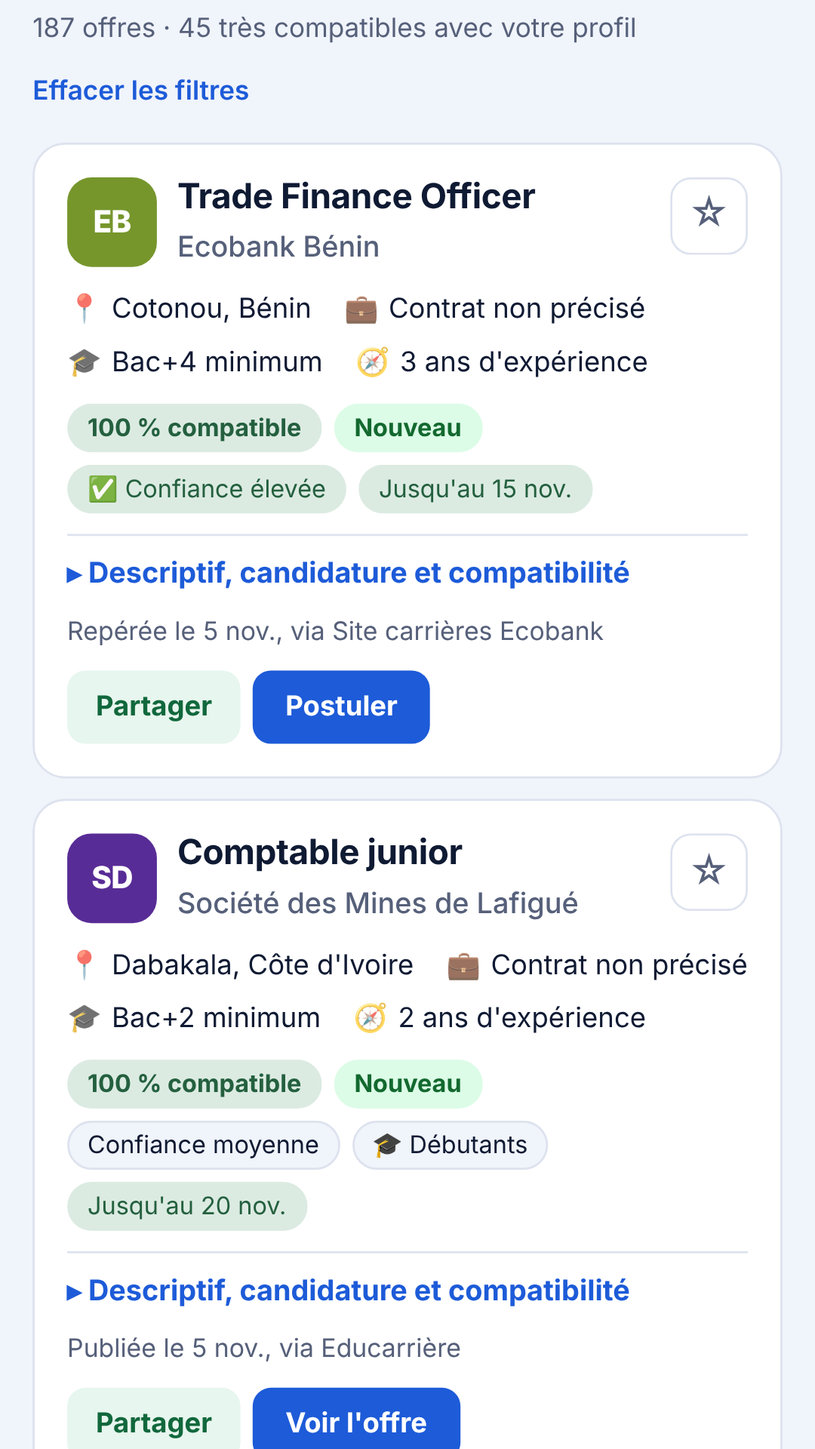
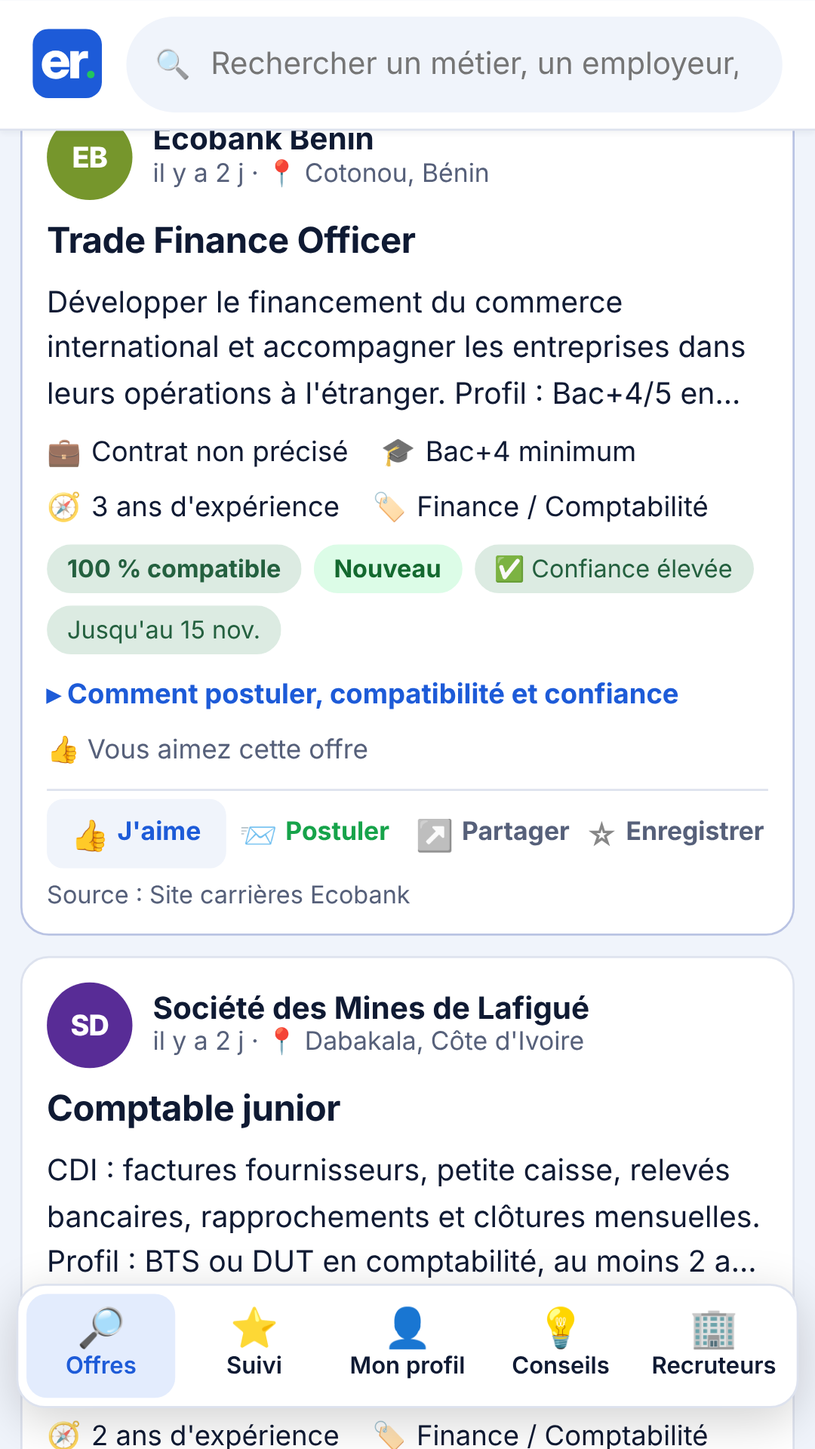
Présentation en fil d'actualité et bouton J'aime
Claude-Session: https://claude.ai/code/session_01GXcZSC4VoChyLTkUpjdEEi

diff --git a/index.html b/index.html
@@ -207,7 +207,6 @@ body{background:var(--bg)}
 .pick-b small{opacity:.7;margin-left:3px}
 .hero .sub{color:#c7d6ff;margin:14px 0 0;font-size:13.5px}
 .hero #partenaire a{color:#fff;text-decoration:underline}
-body:not(.v-offres) .hsearch, body:not(.v-offres) .picks, body:not(.v-offres) .hsub{display:none}
 body:not(.v-offres) .hero h1{font-size:clamp(26px,4vw,34px);margin-bottom:0}
 body:not(.v-offres) .hbar{margin-bottom:18px}
 .nav{margin:-22px 0 16px;position:relative;z-index:2;box-shadow:0 6px 20px rgba(18,29,82,.12)}
@@ -256,32 +255,136 @@ body:not(.v-offres) .hbar{margin-bottom:18px}
 .panel h2,h2.h,.dlg h2{font-weight:800;letter-spacing:-.02em}
 .hrec{background:var(--night)}
 body:not(.v-offres) .sun{width:260px;height:260px;bottom:-170px;right:-60px}
+/* ===== v4 : fil d'actualité ===== */
+.wrap{max-width:none;margin:0;padding:0 0 90px}
+.topbar{position:sticky;top:0;z-index:20;background:var(--card);border-bottom:1px solid var(--line);box-shadow:0 1px 3px rgba(15,26,51,.06)}
+.tb-in{max-width:1280px;margin:0 auto;padding:8px 16px;display:flex;align-items:center;gap:12px}
+.topbar .logo{color:var(--accent);font-size:20px;flex:none}
+.topbar .logo .mk rect{fill:var(--accent)} .topbar .logo .mk path{fill:#fff}
+.hsearch{flex:1;max-width:560px;margin:0 auto;display:flex;align-items:center;gap:6px;background:var(--bg);border-radius:999px;padding:4px 4px 4px 14px;box-shadow:none}
+.hsearch:focus-within{box-shadow:0 0 0 2px var(--accent)}
+.hsearch input{font-size:15px;padding:8px 4px;color:var(--ink)}
+.hsearch button{border-radius:999px;padding:8px 16px;font-size:14px}
+.sic{opacity:.6;font-size:14px}
+.hrec{flex:none;background:var(--accent-soft);color:var(--accent);border:0;border-radius:999px;padding:8px 14px;font:inherit;font-size:14px;font-weight:700;cursor:pointer}
+.hrec:hover{background:var(--accent);color:#fff}
+.layout{max-width:1280px;margin:0 auto;padding:16px;display:grid;grid-template-columns:250px minmax(0,640px) 300px;gap:24px;justify-content:center;align-items:start}
+.lside,.rside{position:sticky;top:72px;max-height:calc(100vh - 88px);overflow:auto}
+.lside .nav{flex-direction:column;background:transparent;border:0;box-shadow:none;padding:0;margin:0 0 12px;gap:2px}
+.lside .nav button{text-align:left;display:flex;align-items:center;gap:10px;padding:10px 12px;font-size:15px;border-radius:10px}
+.lside .nav button:hover{background:var(--card)}
+.lside .nav button[aria-selected="true"]{background:var(--accent-soft);color:var(--accent)}
+.lside .nav .ic{font-size:20px;width:28px;text-align:center;margin:0}
+.lside .nav .lg{display:inline}.lside .nav .sh{display:none}
+.shorts{border-top:1px solid var(--line);padding-top:10px}
+.shorts h3,.side h3{font-size:14px;color:var(--mute);font-weight:700;margin:4px 12px 6px}
+.shorts button{display:flex;width:100%;align-items:center;gap:10px;background:none;border:0;padding:8px 12px;border-radius:10px;font:inherit;font-size:14.5px;color:var(--ink);cursor:pointer;text-align:left}
+.shorts button:hover,.shorts button[aria-pressed="true"]{background:var(--card)}
+.shorts button[aria-pressed="true"]{color:var(--accent);font-weight:700}
+.shorts .n{margin-left:auto;color:var(--mute);font-size:12.5px}
+.lfoot{color:var(--mute);font-size:12px;margin:12px}
+.composer{background:var(--card);border:1px solid var(--line);border-radius:14px;padding:14px 16px;margin-bottom:12px}
+.hello{font-size:19px;font-weight:800;margin:0 0 4px;letter-spacing:-.01em}
+.composer .hsub{color:var(--mute);font-size:14.5px;margin:0 0 10px}
+.composer .hsub b{color:var(--ink)}
+.picks{display:flex;gap:10px;overflow-x:auto;padding:6px 4px 4px;margin:0;scrollbar-width:thin;flex-wrap:nowrap}
+.pick-b{flex:none;display:flex;flex-direction:column;align-items:center;gap:4px;background:none;border:0;color:var(--ink);font:inherit;font-size:12.5px;cursor:pointer;width:76px;padding:0}
+.pick-b .ring{width:60px;height:60px;border-radius:50%;display:grid;place-items:center;font-weight:800;font-size:16px;color:#fff;background:hsl(var(--h) 60% 42%);box-shadow:0 0 0 3px var(--card),0 0 0 5px var(--accent)}
+.pick-b[aria-pressed="true"] .ring{box-shadow:0 0 0 3px var(--card),0 0 0 5px var(--sun)}
+.pick-b:hover,.pick-b[aria-pressed="true"]{background:none;color:var(--accent)}
+.pick-b small{opacity:1;margin:0;color:var(--mute);font-size:11.5px}
+.pick-b .lb{max-width:76px;overflow:hidden;text-overflow:ellipsis;white-space:nowrap;font-weight:600}
+.controls{background:var(--card);border:1px solid var(--line);border-radius:14px;padding:12px;margin-bottom:12px}
+#ban-top .ad{margin-bottom:12px}
+/* publication */
+.job{padding:0;gap:0;border-radius:14px;overflow:hidden}
+.job>*{margin:0}
+.ph{display:flex;gap:10px;align-items:center;padding:12px 16px 0}
+.ph .mono{width:42px;height:42px;border-radius:50%;font-size:14px}
+.ph .who{flex:1;min-width:0}
+.ph .who b{display:block;font-size:15px;line-height:1.25}
+.ph .who span{display:block;color:var(--mute);font-size:12.5px;line-height:1.35}
+.pb{padding:10px 16px 0}
+.pb h3{margin:0 0 6px;font-size:17.5px;font-weight:750;line-height:1.3;letter-spacing:-.01em}
+.pb h3 a{color:inherit;text-decoration:none}.pb h3 a:hover{text-decoration:underline}
+.pdesc{margin:0 0 8px;font-size:14.5px;line-height:1.55;display:-webkit-box;-webkit-line-clamp:3;-webkit-box-orient:vertical;overflow:hidden}
+.pdesc.open{display:block}
+.more{background:none;border:0;padding:0;color:var(--mute);font:inherit;font-weight:700;font-size:14px;cursor:pointer;margin:-4px 0 8px}
+.pb .facts{margin-bottom:8px}
+.pb .tags{margin-bottom:10px}
+.job .det{border-top:0;padding:0 16px 8px}
+.job .det>summary{font-size:13.5px}
+.pcount{display:flex;justify-content:space-between;padding:0 16px 8px;font-size:13px;color:var(--mute)}
+.pcount:empty{display:none}
+.pbar{display:grid;grid-template-columns:repeat(4,1fr);border-top:1px solid var(--line);margin:0 12px;padding:4px 0}
+.pbar>*{display:flex;align-items:center;justify-content:center;gap:6px;background:none;border:0;border-radius:8px;padding:8px 4px;font:inherit;font-size:14px;font-weight:650;color:var(--mute);cursor:pointer;text-decoration:none;white-space:nowrap}
+.pbar>*:hover{background:var(--bg)}
+.pbar .on{color:var(--accent)}
+.pbar .ap{color:var(--sun)}
+.pbar .ico{font-size:17px;line-height:1}
+.psrc{padding:0 16px 10px;font-size:12px;color:var(--mute)}
+/* colonne droite */
+.side{background:var(--card);border:1px solid var(--line);border-radius:14px;padding:10px 4px;margin-bottom:12px}
+.side ul{list-style:none;margin:0;padding:0}
+.side li button{display:flex;width:100%;gap:10px;align-items:center;background:none;border:0;border-radius:10px;padding:8px 12px;font:inherit;color:var(--ink);text-align:left;cursor:pointer}
+.side li button:hover{background:var(--bg)}
+.side li .mono{width:34px;height:34px;border-radius:50%;font-size:12px}
+.side li b{display:block;font-size:13.5px;line-height:1.3;font-weight:650}
+.side li small{display:block;color:var(--mute);font-size:12px}
+.side .soonx{color:var(--red);font-weight:700}
+.side .ad{margin:4px 8px;padding:10px}
+.side .reccta{margin:4px 12px 6px;font-size:13.5px;color:var(--mute)}
+.side .reccta .btn{margin-top:8px}
+.rside .side:first-child{margin-top:0}
+/* responsive */
+.feed,.lside,.rside{min-width:0}
+.pbar>:not(.on):not(.ap) .ico{filter:grayscale(1);opacity:.75}
+.side .ad{padding-top:24px}
+@media (max-width:480px){.pbar>*{font-size:12.5px;gap:4px;padding:8px 2px}.pbar .ico{font-size:15px}.ph,.pb,.pcount,.psrc,.job .det{padding-left:12px;padding-right:12px}}
+@media (max-width:1180px){.layout{grid-template-columns:220px minmax(0,640px)}.rside{display:none}}
+@media (min-width:1181px){#ban-top{display:none}}
+@media (max-width:860px){
+  .layout{grid-template-columns:minmax(0,1fr);padding:10px}
+  .lside{position:static;max-height:none;overflow:visible}
+  .shorts,.lfoot{display:none}
+  .lside .nav{position:fixed;left:8px;right:8px;bottom:8px;z-index:30;flex-direction:row;background:var(--card);border:1px solid var(--line);box-shadow:0 6px 24px rgba(0,0,0,.18);padding:4px;border-radius:14px}
+  .lside .nav button{flex:1;flex-direction:column;gap:1px;font-size:11.5px;padding:7px 2px;text-align:center}
+  .lside .nav .ic{font-size:19px;width:auto}
+  .lside .nav .lg{display:none}.lside .nav .sh{display:inline}
+  .hrec{display:none}
+  .topbar .logo{font-size:0;gap:0}
+  .hsearch button{display:none}
+}
 @media (prefers-reduced-motion:reduce){*{transition:none!important;scroll-behavior:auto!important}}
 </style>
 </head>
 <body class="v-offres">
-<header class="hero">
-  <svg class="sun" viewBox="0 0 420 420" aria-hidden="true"><circle cx="210" cy="210" r="210" fill="#ffffff" opacity=".06"/><circle cx="210" cy="210" r="150" fill="#ffffff" opacity=".07"/><circle cx="210" cy="210" r="92" fill="#ffffff" opacity=".08"/></svg>
-  <div class="hero-in">
-    <div class="hbar"><a class="logo" href="#" data-gov="offres"><svg class="mk" aria-hidden="true" xmlns="http://www.w3.org/2000/svg" viewBox="0 0 512 512"><rect width="512" height="512" rx="118" fill="#ffffff"/><path fill="#1d5bd8" transform="translate(58 366) scale(2.6)" d="M43.65234375 1.7578125C63.2080078125 1.7578125 78.80859375 -9.1552734375 81.6650390625 -24.755859375H59.033203125C57.2021484375 -19.62890625 51.9287109375 -16.40625 44.53125 -16.40625C34.5703125 -16.40625 28.7109375 -22.6318359375 28.41796875 -32.4462890625H82.2509765625V-39.2578125C82.2509765625 -62.6953125 66.2109375 -79.1015625 42.9931640625 -79.1015625C20.068359375 -79.1015625 3.80859375 -62.255859375 3.80859375 -38.671875C3.80859375 -15.087890625 19.921875 1.7578125 43.65234375 1.7578125ZM28.564453125 -47.5341796875C29.6630859375 -55.6640625 35.15625 -60.498046875 43.65234375 -60.498046875C52.0751953125 -60.498046875 57.6416015625 -55.6640625 58.740234375 -47.5341796875Z M84.7978515625 0.0H109.9931640625V-39.6240234375C109.9931640625 -50.6103515625 116.21875 -56.9091796875 125.2275390625 -56.9091796875C128.8896484375 -56.9091796875 133.357421875 -56.7626953125 135.1884765625 -56.689453125V-77.490234375C133.1376953125 -77.5634765625 131.013671875 -77.63671875 128.3037109375 -77.63671875C117.9765625 -77.63671875 112.1904296875 -73.53515625 109.4072265625 -63.720703125H109.1875V-77.34375H84.7978515625Z"/><circle cx="430" cy="338" r="28" fill="#22c55e"/></svg>Emploi Rapide</a><button class="hrec" data-gov="recruteurs">Vous recrutez ?</button></div>
-    <h1 id="h1">Les offres d'emploi du jour, prêtes à postuler.</h1>
-    <p class="hsub" id="hsub"></p>
-    <form class="hsearch" id="hsearch" role="search"><label class="sr" for="q">Rechercher un emploi</label><input id="q" type="search" placeholder="Métier, compétence, employeur, ville…" autocomplete="off"><button type="submit">Rechercher</button></form>
-    <div class="picks" id="picks" aria-label="Recherches rapides"></div>
-    <p class="sub" id="maj"></p>
-    <p class="sub" id="partenaire" style="display:none"></p>
+<header class="topbar">
+  <div class="tb-in">
+    <a class="logo" href="#" data-gov="offres"><svg class="mk" aria-hidden="true" xmlns="http://www.w3.org/2000/svg" viewBox="0 0 512 512"><rect width="512" height="512" rx="118" fill="#ffffff"/><path fill="#1d5bd8" transform="translate(58 366) scale(2.6)" d="M43.65234375 1.7578125C63.2080078125 1.7578125 78.80859375 -9.1552734375 81.6650390625 -24.755859375H59.033203125C57.2021484375 -19.62890625 51.9287109375 -16.40625 44.53125 -16.40625C34.5703125 -16.40625 28.7109375 -22.6318359375 28.41796875 -32.4462890625H82.2509765625V-39.2578125C82.2509765625 -62.6953125 66.2109375 -79.1015625 42.9931640625 -79.1015625C20.068359375 -79.1015625 3.80859375 -62.255859375 3.80859375 -38.671875C3.80859375 -15.087890625 19.921875 1.7578125 43.65234375 1.7578125ZM28.564453125 -47.5341796875C29.6630859375 -55.6640625 35.15625 -60.498046875 43.65234375 -60.498046875C52.0751953125 -60.498046875 57.6416015625 -55.6640625 58.740234375 -47.5341796875Z M84.7978515625 0.0H109.9931640625V-39.6240234375C109.9931640625 -50.6103515625 116.21875 -56.9091796875 125.2275390625 -56.9091796875C128.8896484375 -56.9091796875 133.357421875 -56.7626953125 135.1884765625 -56.689453125V-77.490234375C133.1376953125 -77.5634765625 131.013671875 -77.63671875 128.3037109375 -77.63671875C117.9765625 -77.63671875 112.1904296875 -73.53515625 109.4072265625 -63.720703125H109.1875V-77.34375H84.7978515625Z"/><circle cx="430" cy="338" r="28" fill="#22c55e"/></svg>Emploi Rapide</a>
+    <form class="hsearch" id="hsearch" role="search"><label class="sr" for="q">Rechercher un emploi</label><span class="sic" aria-hidden="true">🔍</span><input id="q" type="search" placeholder="Rechercher un métier, un employeur, une ville…" autocomplete="off"><button type="submit">Rechercher</button></form>
+    <button class="hrec" data-gov="recruteurs">Vous recrutez ?</button>
   </div>
 </header>
-<div class="wrap">
-
-<nav class="nav" role="tablist" aria-label="Sections">
+<div class="layout">
+<aside class="lside">
+  <nav class="nav" role="tablist" aria-label="Sections">
   <button role="tab" data-v="offres" aria-selected="true"><span class="ic" aria-hidden="true">🔎</span>Offres</button>
   <button role="tab" data-v="suivi" aria-selected="false"><span class="ic" aria-hidden="true">⭐</span><span class="lg">Mes candidatures</span><span class="sh">Suivi</span><span class="bdg" id="bdg-suivi" hidden></span></button>
   <button role="tab" data-v="profil" aria-selected="false"><span class="ic" aria-hidden="true">👤</span>Mon profil</button>
   <button role="tab" data-v="conseils" aria-selected="false"><span class="ic" aria-hidden="true">💡</span>Conseils</button>
   <button role="tab" data-v="recruteurs" aria-selected="false"><span class="ic" aria-hidden="true">🏢</span>Recruteurs</button>
 </nav>
-
+  <div class="shorts" id="shorts"></div>
+  <p class="lfoot" id="maj"></p>
+</aside>
+<main class="feed wrap">
+<div class="composer" id="composer">
+  <p class="hello" id="h1">Les offres d'emploi du jour, prêtes à postuler.</p>
+  <p class="hsub" id="hsub"></p>
+  <div class="picks" id="picks" aria-label="Recherches rapides"></div>
+  <p class="sub" id="partenaire" style="display:none"></p>
+</div>
 <!-- ============ OFFRES ============ -->
 <section class="view" id="v-offres">
 <div id="cta-profil"></div>
@@ -308,6 +411,7 @@ body:not(.v-offres) .sun{width:260px;height:260px;bottom:-170px;right:-60px}
     <button class="chip" data-f="deb" aria-pressed="false">🎓 Débutants & stages</button>
     <button class="chip" data-f="fiable" aria-pressed="false">✅ Confiance élevée</button>
     <button class="chip" data-f="mail" aria-pressed="false">✉ Candidature par e-mail</button>
+    <button class="chip" data-f="like" aria-pressed="false">❤ Mes j'aime</button>
     <button class="chip more-f" data-f="direct" aria-pressed="false">Site officiel de l'employeur</button>
     <button class="chip more-f" data-f="li" aria-pressed="false">LinkedIn</button>
     <button class="chip more-f" data-f="monde" aria-pressed="false">🌍 Hors Afrique francophone</button>
@@ -467,6 +571,8 @@ body:not(.v-offres) .sun{width:260px;height:260px;bottom:-170px;right:-60px}
     <li>Visa ou emploi à l'étranger « garanti ».</li>
     <li>Demande de pièce d'identité ou de coordonnées bancaires avant tout entretien.</li></ol></details>
 </section>
+</main>
+<aside class="rside" id="rside"></aside>
 </div>
 
 <dialog id="dlg" aria-labelledby="dlg-t"><div class="dlg" id="dlg-b"></div></dialog>
@@ -584,6 +690,11 @@ function compat(j){
   return {s:Math.max(0,Math.min(100,s)),w};
 }
 
+/* ---------- j'aime ---------- */
+let LK = store.get('er-likes', {});
+function toggleLike(id){ if(LK[id]) delete LK[id]; else LK[id]=today; store.set('er-likes',LK); }
+const ago = d => {const n=-days(d); return n<=0?"aujourd'hui":n===1?'hier':n<7?'il y a '+n+' j':'le '+fmt(d);};
+
 /* ---------- suivi des candidatures ---------- */
 let TR = store.get('er-suivi', {});
 const ST = [['save','⭐ À postuler'],['post','📨 Candidature envoyée'],['ent','🗣 Entretien'],['ok','🎉 Acceptée'],['ko','Refusée']];
@@ -635,8 +746,10 @@ const nPays=new Set(jobs.filter(j=>!/^Monde/.test(j.p)).map(j=>j.p)).size, nNew=
 $('hsub').innerHTML = `<b>${jobs.length} offres ouvertes</b> dans ${nPays} pays${nNew&&nNew<jobs.length?`, dont <b>${nNew} nouvelles ce matin</b>`:''}. Chaque offre indique l'adresse pour postuler et un indice de confiance.`;
 $('rec-kpi').innerHTML = `<div><b>${jobs.length}</b>offres en ligne</div><div><b>${nPays}</b>pays couverts</div><div><b>6 h 40</b>mise à jour quotidienne</div>`;
 const topP=Object.entries(jobs.reduce((m,j)=>(AFR(j)&&(m[j.p]=(m[j.p]||0)+1),m),{})).sort((a,b)=>b[1]-a[1]).slice(0,5);
-$('picks').innerHTML = topP.map(([p,n])=>`<button class="pick-b" data-pp="${esc(p)}" aria-pressed="false">${esc(p)}<small>${n}</small></button>`).join('')
-  + `<button class="pick-b" data-pf="deb" aria-pressed="false">🎓 Stages et débutants</button><button class="pick-b" data-pf="tt" aria-pressed="false">💻 Télétravail</button><button class="pick-b" data-pf="monde" aria-pressed="false">🌍 À l'international</button>`;
+const ISO={"Côte d'Ivoire":'CI','Sénégal':'SN','RD Congo':'CD','Maroc':'MA','Cameroun':'CM','Bénin':'BJ','Togo':'TG','Mali':'ML','Tunisie':'TN','Mauritanie':'MR','Burkina Faso':'BF','Niger':'NE','Gabon':'GA','Guinée':'GN','Congo':'CG','Madagascar':'MG'};
+const topP8=Object.entries(jobs.reduce((m,j)=>(AFR(j)&&(m[j.p]=(m[j.p]||0)+1),m),{})).sort((a,b)=>b[1]-a[1]).slice(0,7);
+$('picks').innerHTML = topP8.map(([p,n])=>`<button class="pick-b" data-pp="${esc(p)}" aria-pressed="false"><span class="ring" style="--h:${parseInt(hid(p),36)%360}">${esc(ISO[p]||p.slice(0,2).toUpperCase())}</span><span class="lb">${esc(p)}</span><small>${n} offres</small></button>`).join('')
+  + `<button class="pick-b" data-pf="deb" aria-pressed="false"><span class="ring" style="--h:150">🎓</span><span class="lb">Débutants</span><small>stages</small></button><button class="pick-b" data-pf="tt" aria-pressed="false"><span class="ring" style="--h:265">💻</span><span class="lb">Télétravail</span><small>à distance</small></button><button class="pick-b" data-pf="monde" aria-pressed="false"><span class="ring" style="--h:200">🌍</span><span class="lb">Monde</span><small>international</small></button>`;
 $('sites').innerHTML = (D.sites||[]).map(([n,u,k])=>`<li><a href="${esc(safe(u))}" target="_blank" rel="noopener">${esc(n)}</a> · ${esc(k)}</li>`).join('');
 $('sources').innerHTML = [...new Set(jobs.map(j=>j.src))].sort((a,b)=>a.localeCompare(b,'fr')).map(s=>`<li>${esc(s)}</li>`).join('');
 
@@ -672,6 +785,7 @@ function match(j, s){
   if(f.has('tt') && !j.tt) return false;
   if(f.has('ouv') && !j.ouv) return false;
   if(f.has('monde') && AFR(j)) return false;
+  if(f.has('like') && !LK[j.id]) return false;
   const q = norm(s.q).trim();
   if(q){const hay=norm([j.t,j.e,j.v,j.p,j.s,j.desc,j.c].join(' ')); if(!q.split(/\s+/).every(w=>hay.includes(w))) return false;}
   return true;
@@ -722,7 +836,6 @@ function calURL(j){
 }
 function detHTML(j, c){
   let h='';
-  if(j.desc) h+=`<p class="desc">${esc(j.desc)}</p>`;
   let how='';
   j.mails.forEach(m=>{how+=`<div class="how-row"><span aria-hidden="true">✉</span><a href="mailto:${esc(m)}" class="mail">${esc(m)}</a><button class="copy" data-copy="${esc(m)}">Copier</button></div>`;});
   if(j.lien) how+=`<div class="how-row"><a class="btn dark" href="${esc(safe(j.lien))}" target="_blank" rel="noopener">Postuler en ligne ↗</a></div>`;
@@ -732,7 +845,7 @@ function detHTML(j, c){
   h+=`<div class="box"><span class="box-t">Comment postuler</span>${how}</div>`;
   if(c) h+=`<div class="box"><span class="box-t">Compatibilité avec votre profil : ${c.s} %</span>${whyHTML(c.w)}</div>`;
   h+=`<div class="box"><span class="box-t">Indice de confiance : ${TRL[j.tr][1].replace(/^\S+ /,'')}</span>${whyHTML(j.trp)}</div>`;
-  return `<details class="det" data-id="${j.id}"><summary>${j.desc?'Descriptif, candidature et compatibilité':'Comment postuler'}</summary>${h}</details>`;
+  return `<details class="det" data-id="${j.id}"><summary>Comment postuler, compatibilité et confiance</summary>${h}</details>`;
 }
 function card(j){
   const d=days(j.lim), c=compat(j);
@@ -741,23 +854,35 @@ function card(j){
   const tags = [j.spon?'<span class="tag spon">Sponsorisé</span>':'', sc, isNew(j)?'<span class="tag new">Nouveau</span>':'',
     `<span class="tag ${TRL[j.tr][0]}">${TRL[j.tr][1]}</span>`, j.li?'<span class="tag li">LinkedIn</span>':'',
     j.tt?'<span class="tag tt">💻 Télétravail</span>':'', !AFR(j)&&!j.tt?`<span class="tag zone">🌍 ${esc(zoneOf(j))}</span>`:'',
-    j.ouv&&!AFR(j)?'<span class="tag ok">Ouvert à l\'international</span>':'', j.deb?'<span class="tag">🎓 Débutants</span>':'',
-    lim].join('');
-  const req=[j.niv!==null?nivLbl(j.niv)+(j.niv>=0?' min.':''):'', j.xp!==null?(j.xp?j.xp+' an'+(j.xp>1?'s':'')+' d\'exp.':'Débutant accepté'):''].filter(Boolean).join(' · ');
-  const ini=(j.e.replace(/\(.*?\)/g,'').match(/[A-Za-zÀ-ÿ0-9]+/g)||['?']).filter(w=>w.length>2||/^[A-Z0-9]+$/.test(w)).slice(0,2);
-  const mono=(ini.length>1?ini.map(w=>w[0]).join(''):(ini[0]||j.e).slice(0,2)).toUpperCase();
-  const hue=parseInt(hid(j.e),36)%360;
-  const facts=[['📍',(j.v&&j.v!==j.p?j.v+', ':'')+j.p],['💼',contratTxt(j.c)],j.niv!==null?['🎓',nivLbl(j.niv)+(j.niv>=0?' minimum':'')]:null,j.xp!==null?['🧭',j.xp?j.xp+' an'+(j.xp>1?'s':'')+' d\'expérience':'Débutants acceptés']:null].filter(Boolean);
+    j.ouv&&!AFR(j)?'<span class="tag ok">Ouvert à l\'international</span>':'', j.deb?'<span class="tag">🎓 Débutants</span>':'', lim].join('');
+  const facts=[['💼',contratTxt(j.c)],j.niv!==null?['🎓',nivLbl(j.niv)+(j.niv>=0?' minimum':'')]:null,j.xp!==null?['🧭',j.xp?j.xp+' an'+(j.xp>1?'s':'')+' d\'expérience':'Débutants acceptés']:null,['🏷',j.s]].filter(Boolean);
+  const when = j.pub||j.add||D.maj;
+  const liked=!!LK[j.id], saved=!!TR[j.id];
+  const apply = j.lien ? `<a class="ap" href="${esc(safe(j.lien))}" target="_blank" rel="noopener"><span class="ico" aria-hidden="true">📨</span>Postuler</a>`
+    : j.mails.length ? `<button class="ap" data-mail="${j.id}"><span class="ico" aria-hidden="true">📨</span>Postuler</button>`
+    : `<a class="ap" href="${esc(safe(j.u))}" target="_blank" rel="noopener"><span class="ico" aria-hidden="true">📨</span>Voir l'offre</a>`;
+  const cnt=[liked?'<span>👍 Vous aimez cette offre</span>':'', saved?'<span>⭐ Dans vos candidatures</span>':''].filter(Boolean).join('');
   return `<article class="job${j.spon?' spon':''}" id="o-${j.id}">
-    <div class="top"><span class="mono" style="--h:${hue}" aria-hidden="true">${esc(mono)}</span>
-      <div class="ttl"><h3><a href="${esc(safe(j.u))}" target="_blank" rel="noopener">${esc(j.t)}</a></h3><div class="emp">${esc(j.e)}</div></div>
-      <button class="star" data-star="${j.id}" aria-pressed="${!!TR[j.id]}" aria-label="${TR[j.id]?'Retirer de':'Ajouter à'} mes candidatures">${TR[j.id]?'★':'☆'}</button></div>
-    <ul class="facts">${facts.map(([i,t])=>`<li><span aria-hidden="true">${i}</span>${esc(t)}</li>`).join('')}</ul>
-    <div class="tags">${tags}</div>
+    <div class="ph">${monoHTML(j.e)}<div class="who"><b>${esc(j.e)}</b><span>${j.spon?'Sponsorisé':ago(when)} · 📍 ${esc((j.v&&j.v!==j.p?j.v+', ':'')+j.p)}</span></div></div>
+    <div class="pb"><h3><a href="${esc(safe(j.u))}" target="_blank" rel="noopener">${esc(j.t)}</a></h3>
+      ${j.desc?`<p class="pdesc">${esc(j.desc)}</p>${j.desc.length>190?'<button class="more" data-more>Voir plus</button>':''}`:''}
+      <ul class="facts">${facts.map(([i,t])=>`<li><span aria-hidden="true">${i}</span>${esc(t)}</li>`).join('')}</ul>
+      <div class="tags">${tags}</div></div>
     ${detHTML(j,c)}
-    <div class="foot"><span>${j.pub?'Publiée le '+fmt(j.pub):'Repérée le '+fmt(j.add||D.maj)}, via ${esc(j.src)}</span>
-      <span class="acts"><button class="btn wa" data-wa="${j.id}" aria-label="Partager sur WhatsApp">Partager</button><a class="btn go" href="${esc(safe(j.lien||j.u))}" target="_blank" rel="noopener">${j.lien?'Postuler':'Voir l\'offre'}</a></span></div>
+    <div class="pcount">${cnt}</div>
+    <div class="pbar">
+      <button class="${liked?'on':''}" data-like="${j.id}" aria-pressed="${liked}"><span class="ico" aria-hidden="true">👍</span>J'aime</button>
+      ${apply}
+      <button data-wa="${j.id}"><span class="ico" aria-hidden="true">↗</span>Partager</button>
+      <button class="${saved?'on':''}" data-star="${j.id}" aria-pressed="${saved}"><span class="ico" aria-hidden="true">${saved?'⭐':'☆'}</span>${saved?'Enregistrée':'Enregistrer'}</button>
+    </div>
+    <div class="psrc">Source : ${esc(j.src)}${j.pub?' · publiée le '+fmt(j.pub):''}</div>
   </article>`;
+}
+function monoHTML(name){
+  const w=(name.replace(/\(.*?\)/g,'').match(/[A-Za-zÀ-ÿ0-9]+/g)||['?']).filter(x=>x.length>2||/^[A-Z0-9]+$/.test(x)).slice(0,2);
+  const m=(w.length>1?w.map(x=>x[0]).join(''):(w[0]||name).slice(0,2)).toUpperCase();
+  return `<span class="mono" style="--h:${parseInt(hid(name),36)%360}" aria-hidden="true">${esc(m)}</span>`;
 }
 
 /* ---------- liste ---------- */
@@ -780,6 +905,7 @@ function render(keep){
   $('more').hidden = r.length<=shown;
   $('more').textContent = 'Afficher plus d\'offres ('+(r.length-shown)+' restantes)';
   store.set('veille-filtres',{...st,f:[...st.f]});
+  if($('shorts').innerHTML) document.querySelectorAll('#shorts [data-sf]').forEach(b=>b.setAttribute('aria-pressed',st.f.has(b.dataset.sf)));
 }
 $('more').onclick=()=>{shown+=PAGE;render(true);};
 $('reset').onclick=()=>{Object.assign(st,{q:'',z:'',pays:'',secteur:'',contrat:'',k:'',f:new Set()});syncControls();render();};
@@ -797,10 +923,14 @@ if(st.contrat||st.k||['direct','li','monde','tt','ouv'].some(x=>st.f.has(x))) $(
 
 /* ---------- actions sur les cartes ---------- */
 document.addEventListener('click',e=>{
+  const mb=e.target.closest('[data-more]'); if(mb){const p=mb.previousElementSibling;p.classList.toggle('open');mb.textContent=p.classList.contains('open')?'Voir moins':'Voir plus';return;}
+  const lk=e.target.closest('[data-like]'); if(lk){const id=lk.dataset.like;toggleLike(id);refreshCard(id);renderSide();renderShorts();if(LK[id])toast('Ajoutée à vos j\'aime. Retrouvez-les dans « Mes j\'aime ».');return;}
+  const em=e.target.closest('[data-emp]'); if(em){show('offres');st.q=em.dataset.emp;syncControls();render();$('count').scrollIntoView({behavior:'smooth'});return;}
+  const sh=e.target.closest('[data-sf]'); if(sh){show('offres');const f=sh.dataset.sf;st.f.has(f)?st.f.delete(f):st.f.add(f);syncControls();render();renderShorts();return;}
   const t=e.target.closest('[data-copy],[data-star],[data-wa],[data-mail],[data-posted],[data-go]'); if(!t) return;
   if(t.dataset.copy!==undefined){const v=t.dataset.copy;
     try{navigator.clipboard.writeText(v).then(()=>toast('Copié : '+v),()=>toast('Copie impossible : sélectionnez le texte.'));}catch(err){toast('Copie impossible : sélectionnez le texte.');}}
-  else if(t.dataset.star){toggleSave(t.dataset.star); refreshCard(t.dataset.star); if(!$('v-suivi').hidden) renderSuivi();}
+  else if(t.dataset.star){toggleSave(t.dataset.star); refreshCard(t.dataset.star); renderSide(); if(!$('v-suivi').hidden) renderSuivi();}
   else if(t.dataset.wa){const j=byId[t.dataset.wa]||{...TR[t.dataset.wa].s,id:t.dataset.wa};
     const txt='📢 Offre d\'emploi : '+j.t+' – '+j.e+' ('+(j.v&&j.v!==j.p?j.v+', ':'')+j.p+')'+(j.lim?'\n⏳ Date limite : '+fmtL(j.lim):'')+'\n👉 '+shareURL(j)+'\n\nTrouvée sur Emploi Rapide';
     if(navigator.share && /Android|iPhone|iPad/i.test(navigator.userAgent)){navigator.share({title:j.t,text:txt}).catch(()=>{});}
@@ -920,6 +1050,8 @@ pf.onsubmit=e=>{e.preventDefault();
 };
 $('pf-clear').onclick=()=>{P={};store.set('er-profil',P);loadP();ctaProfil();if(st.tri==='score'){st.tri='pub';syncControls();}render();toast('Profil effacé.');};
 function ctaProfil(){
+  const pn=(P.nom||'').trim().split(/\s+/)[0];
+  $('h1').textContent = pn ? `Bonjour ${pn} 👋 Voici les offres du jour.` : "Les offres d'emploi du jour, prêtes à postuler.";
   $('cta-profil').innerHTML = hasP() ? '' : `<div class="cta"><span style="font-size:26px" aria-hidden="true">🎯</span><p><b>Quelles offres sont faites pour vous ?</b> Créez votre profil en 1 minute : compatibilité calculée pour chaque offre et e-mails de candidature prêts.</p><button class="btn" data-pfgo>Mon profil</button></div>`;
   $('cta-profil').querySelector('[data-pfgo]')?.addEventListener('click',()=>show('profil'));
 }
@@ -929,7 +1061,7 @@ function show(v){
   document.querySelectorAll('.nav [role=tab]').forEach(b=>b.setAttribute('aria-selected',b.dataset.v===v));
   document.querySelectorAll('.view').forEach(s=>s.hidden=s.id!=='v-'+v);
   document.body.className='v-'+v;
-  $('h1').textContent={offres:"Les offres d'emploi du jour, prêtes à postuler.",suivi:'Mes candidatures',profil:'Mon profil',conseils:'Conseils de recruteur',recruteurs:'Espace recruteurs'}[v];
+  $('composer').hidden = v!=='offres';
   if(v==='suivi') renderSuivi(); if(v==='profil') loadP();
   window.scrollTo({top:0});
 }
@@ -949,8 +1081,31 @@ $('picks').addEventListener('click',e=>{const b=e.target.closest('.pick-b');if(!
   else {const f=b.dataset.pf;st.f.has(f)?st.f.delete(f):st.f.add(f);}
   syncControls();render();});
 document.querySelectorAll('[data-gov]').forEach(b=>b.addEventListener('click',e=>{e.preventDefault();show(b.dataset.gov);}));
+/* ---------- colonnes latérales ---------- */
+function renderShorts(){
+  const items=[['like','❤',"Mes j'aime",Object.keys(LK).filter(i=>byId[i]).length],['new','🆕','Nouvelles offres',jobs.filter(isNew).length],['soon','⏳','Clôturent bientôt',nSoon],['deb','🎓','Débutants et stages',jobs.filter(j=>j.deb).length],['tt','💻','Télétravail',jobs.filter(j=>j.tt).length],['fiable','✅','Confiance élevée',jobs.filter(j=>j.tr===1).length],['monde','🌍','International',jobs.filter(j=>!AFR(j)).length]];
+  $('shorts').innerHTML='<h3>Raccourcis</h3>'+items.map(([f,i,l,n])=>`<button data-sf="${f}" aria-pressed="${st.f.has(f)}"><span aria-hidden="true">${i}</span>${l}<span class="n">${n}</span></button>`).join('');
+}
+function sideItem(j,sub){return `<li><button data-go="${j.id}">${monoHTML(j.e)}<span><b>${esc(j.t)}</b><small>${sub}</small></span></button></li>`;}
+function renderSide(){
+  const soon=jobs.filter(j=>{const d=days(j.lim);return d!==null&&d<=7;}).sort((a,b)=>a.lim.localeCompare(b.lim)).slice(0,5);
+  const emp=Object.entries(jobs.reduce((m,j)=>(m[j.e]=(m[j.e]||0)+1,m),{})).filter(([e,n])=>n>1&&!/^\(/.test(e)).sort((a,b)=>b[1]-a[1]).slice(0,6);
+  const lk=Object.keys(LK).map(i=>byId[i]).filter(Boolean);
+  let sug=[];
+  if(lk.length){const S=new Set(lk.map(j=>j.s)),Pp=new Set(lk.map(j=>j.p));
+    sug=jobs.filter(j=>!LK[j.id]&&(S.has(j.s))).map(j=>[j,(Pp.has(j.p)?2:0)+(compat(j)?.s||0)/50]).sort((a,b)=>b[1]-a[1]).slice(0,4).map(x=>x[0]);}
+  else if(hasP()) sug=jobs.map(j=>[j,compat(j).s]).sort((a,b)=>b[1]-a[1]).slice(0,4).map(x=>x[0]);
+  const ad=bans[0]||HOUSE;
+  $('rside').innerHTML =
+    (sug.length?`<div class="side"><h3>${lk.length?'Proches de vos j\'aime':'Pour votre profil'}</h3><ul>${sug.map(j=>sideItem(j,esc(j.e)+(compat(j)?' · '+compat(j).s+' %':''))).join('')}</ul></div>`:'')
+    +(soon.length?`<div class="side"><h3>Clôturent bientôt</h3><ul>${soon.map(j=>{const d=days(j.lim);return sideItem(j,`<span class="soonx">${d===0?"Aujourd'hui":d===1?'Demain':'Dans '+d+' jours'}</span> · ${esc(j.e)}`)}).join('')}</ul></div>`:'')
+    +`<div class="side"><h3>Sponsorisé</h3>${banHTML(ad)}</div>`
+    +(emp.length?`<div class="side"><h3>Ils recrutent en ce moment</h3><ul>${emp.map(([e,n])=>`<li><button data-emp="${esc(e)}">${monoHTML(e)}<span><b>${esc(e)}</b><small>${n} offres ouvertes</small></span></button></li>`).join('')}</ul></div>`:'')
+    +`<div class="side"><h3>Vous recrutez ?</h3><p class="reccta">Mettez votre offre en tête du fil, devant des milliers de candidats.<br><button class="btn" data-gov2="recruteurs">Découvrir nos formats</button></p></div>`;
+  $('rside').querySelector('[data-gov2]')?.addEventListener('click',()=>show('recruteurs'));
+}
 /* ---------- démarrage ---------- */
-syncControls(); ctaProfil(); render(); renderAlertes(); badge();
+syncControls(); ctaProfil(); render(); renderAlertes(); badge(); renderShorts(); renderSide();
 const hm=location.hash.match(/o=([a-z0-9]+)/); if(hm) setTimeout(()=>openOffer(hm[1]),50);
 
 if('serviceWorker' in navigator){navigator.serviceWorker.register('sw.js').catch(()=>{});}

diff --git a/sw.js b/sw.js
@@ -1,5 +1,5 @@
 // Emploi Rapide : fonctionne hors connexion avec la dernière liste téléchargée
-const C='emploi-rapide-v6';
+const C='emploi-rapide-v7';
 const SHELL=['./','index.html','manifest.webmanifest','icons/icon-192.png','icons/icon-512.png','confidentialite.html'];
 self.addEventListener('install',e=>{e.waitUntil(caches.open(C).then(c=>c.addAll(SHELL)));self.skipWaiting();});
 self.addEventListener('activate',e=>{e.waitUntil(caches.keys().then(k=>Promise.all(k.filter(x=>x!==C).map(x=>caches.delete(x)))));self.clients.claim();});
